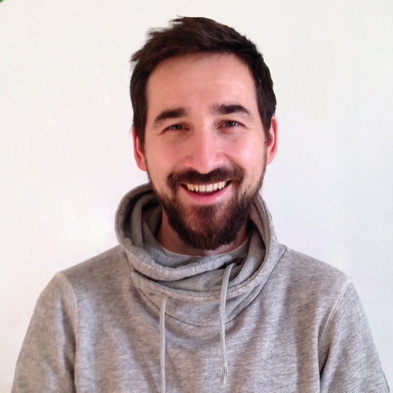
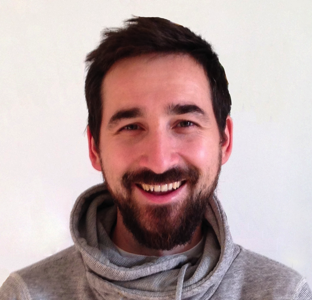
updated photos and text

diff --git a/index.html b/index.html
@@ -33,7 +33,7 @@
               Proiectul “Licurici la râu” te invită la contemplație pe marginea Someșului. Pâlcurile de licurici digitali, plasați în sălciile de pe mal, vor reacționa la prezența ta. De la lăsarea serii și până dimineața, în momentele de liniște, ei vor lumina precum gândacii bioluminescenți.
             </p>
             <p>
-              Poluarea luminoasă și prezența extinsă a asfaltului fac orașul un loc nefavorabil pentru licurici. I-am recreat însă digital pentru tine pe perioada evenimentului Someș Delivery.
+              Poluarea luminoasă și prezența extinsă a asfaltului fac orașul un loc nefavorabil pentru licurici. I-am recreat însă digital pentru tine pe perioada evenimentului Someș Delivery. Te așteptăm la gradena Someș View, amplasată pe Bulevardul 1 Decembrie 1918,  în segmentul podul Garibaldi - hotel Napoca.
             </p>
             <p>
               Observarea licăririi lor este menită să iți reamintească de conexiunea fundamentală cu natura. Apa este un element esențial în ciclul de viață al licuricilor, la fel cum Someșul este important pentru comunitatea Clujeană.
@@ -140,29 +140,37 @@
 
         <div class="row">
           <div class="col-md-3">
-            <figure>
-            <img class="img-circle" src="img/Bogdan.jpg" alt="Photo of Bogdan Szabo" width="50%" height="50%"/>
-            <figcaption>  Bogdan Szabo </figcaption>
-          </figure>
+            <div class="thumbnail authors">
+              <img class="img-circle" src="img/Bogdan.jpg" alt="Photo of Bogdan Szabo" />
+                <div class="caption authors">
+                  <h3>Bogdan Szabo</h3>
+                </div>
+           </div>
         </div>
 
         <div class="col-md-3">
-          <figure>
-          <img class="img-circle" src="img/Ale.jpg" alt="Photo of Alexandra Casapu" width="50%" height="50%"/>
-          <figcaption>  Alexandra Casapu </figcaption>
-        </figure>
+          <div class="thumbnail authors">
+            <img class="img-circle" src="img/Ale.png" alt="Photo of Alexandra Casapu" />
+              <div class="caption authors">
+                <h3>Alexandra Casapu</h3>
+              </div>
+           </div>
         </div>
         <div class="col-md-3">
-          <figure>
-          <img class="img-circle" src="img/Alex.jpg" alt="Photo of Alexandru Rotaru" width="50%" height="50%"/>
-          <figcaption>  Alex Rotaru </figcaption>
-        </figure>
+          <div class="thumbnail authors">
+            <img class="img-circle" src="img/Alex.png" alt="Photo of Alexandru Rotaru"/>
+              <div class="caption authors">
+                <h3>Alex Rotaru</h3>
+              </div>
+           </div>
         </div>
         <div class="col-md-3">
-          <figure>
-          <img class="img-circle" src="img/Oana.jpg" alt="Photo of Oana Casapu" width="50%" height="50%"/>
-          <figcaption>  Oana Casapu </figcaption>
-        </figure>
+          <div class="thumbnail authors">
+            <img class="img-circle" src="img/Oana.png" alt="Photo of Oana Casapu"/>
+              <div class="caption authors">
+                <h3>Oana Casapu</h3>
+              </div>
+           </div>
         </div>
       </div>
     </div>

diff --git a/css/main.css b/css/main.css
@@ -298,7 +298,18 @@ p {
 
 .img-circle {
     border-radius: 50%;
+    width: 50%!important;
+    height: 50%
+}
 
+.authors {
+  background-color: transparent;
+  text-align: center;
+  border: none;
+  color: #FFFFFF!important;
+  box-shadow:none;
+  webkit-box-shadow:none;
+  font-size: 20px;
 }
 
 @media (max-width: 800px) {

diff --git a/css/bootstrap.css b/css/bootstrap.css
@@ -4678,10 +4678,10 @@ a.badge:focus {
 a.thumbnail:hover,
 a.thumbnail:focus,
 a.thumbnail.active {
-  border-color: #337ab7;
+  /*border-color: #337ab7;*/
 }
 .thumbnail .caption {
-  padding: 9px;
+  *padding: 9px;
   color: #333;
 }
 .alert {
